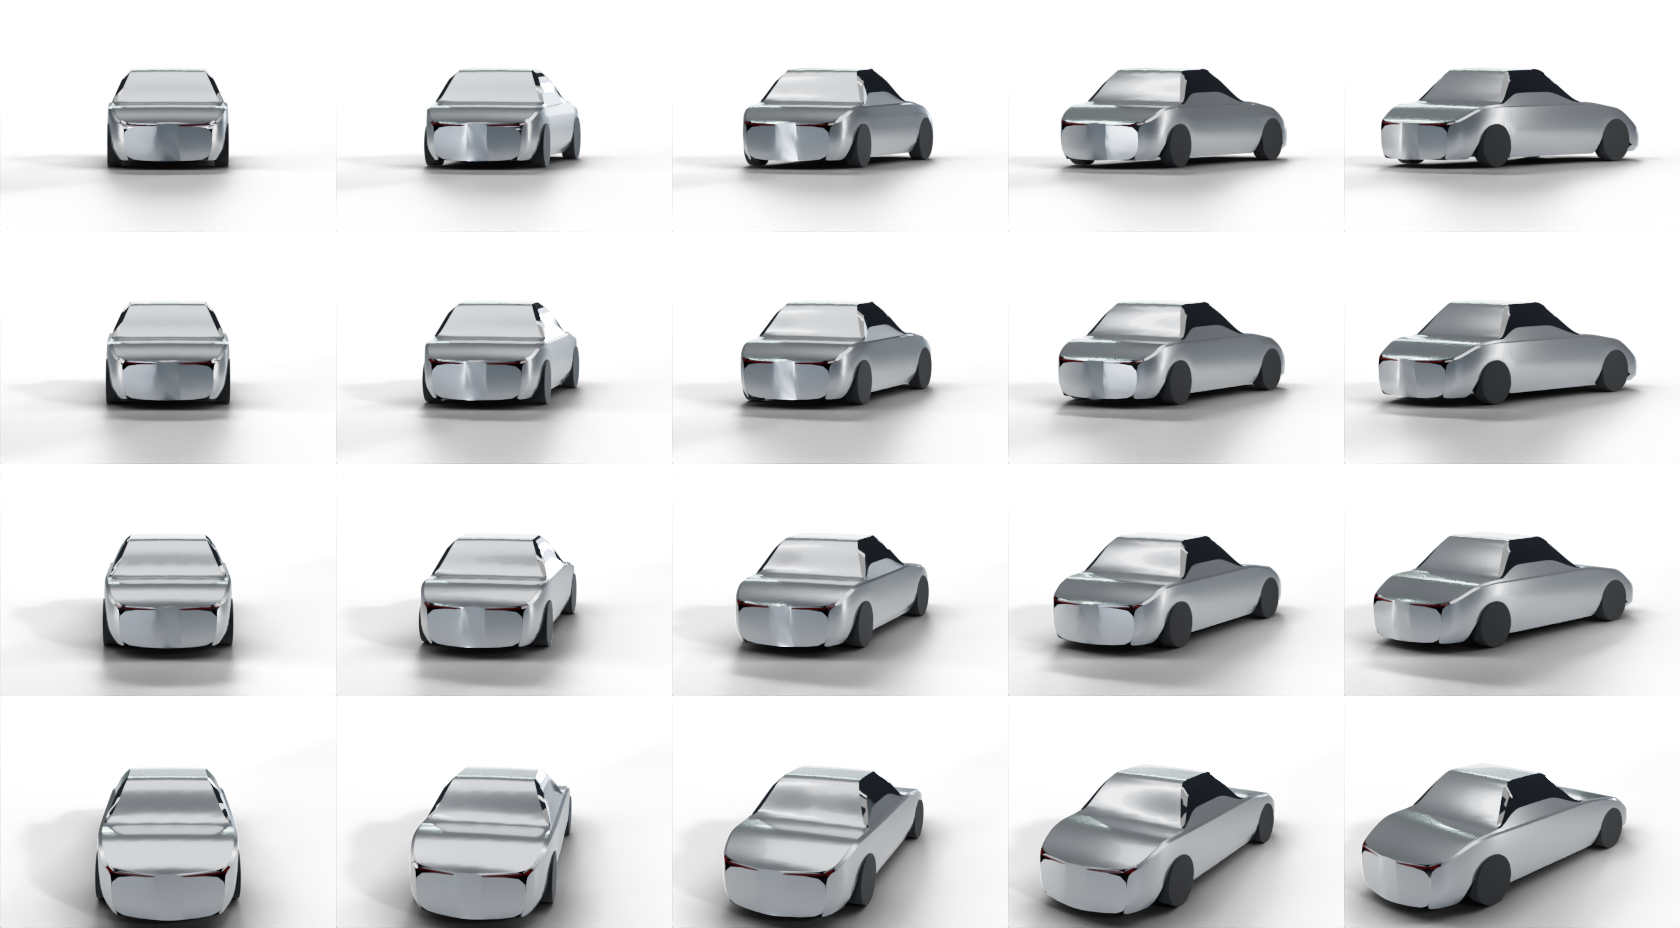
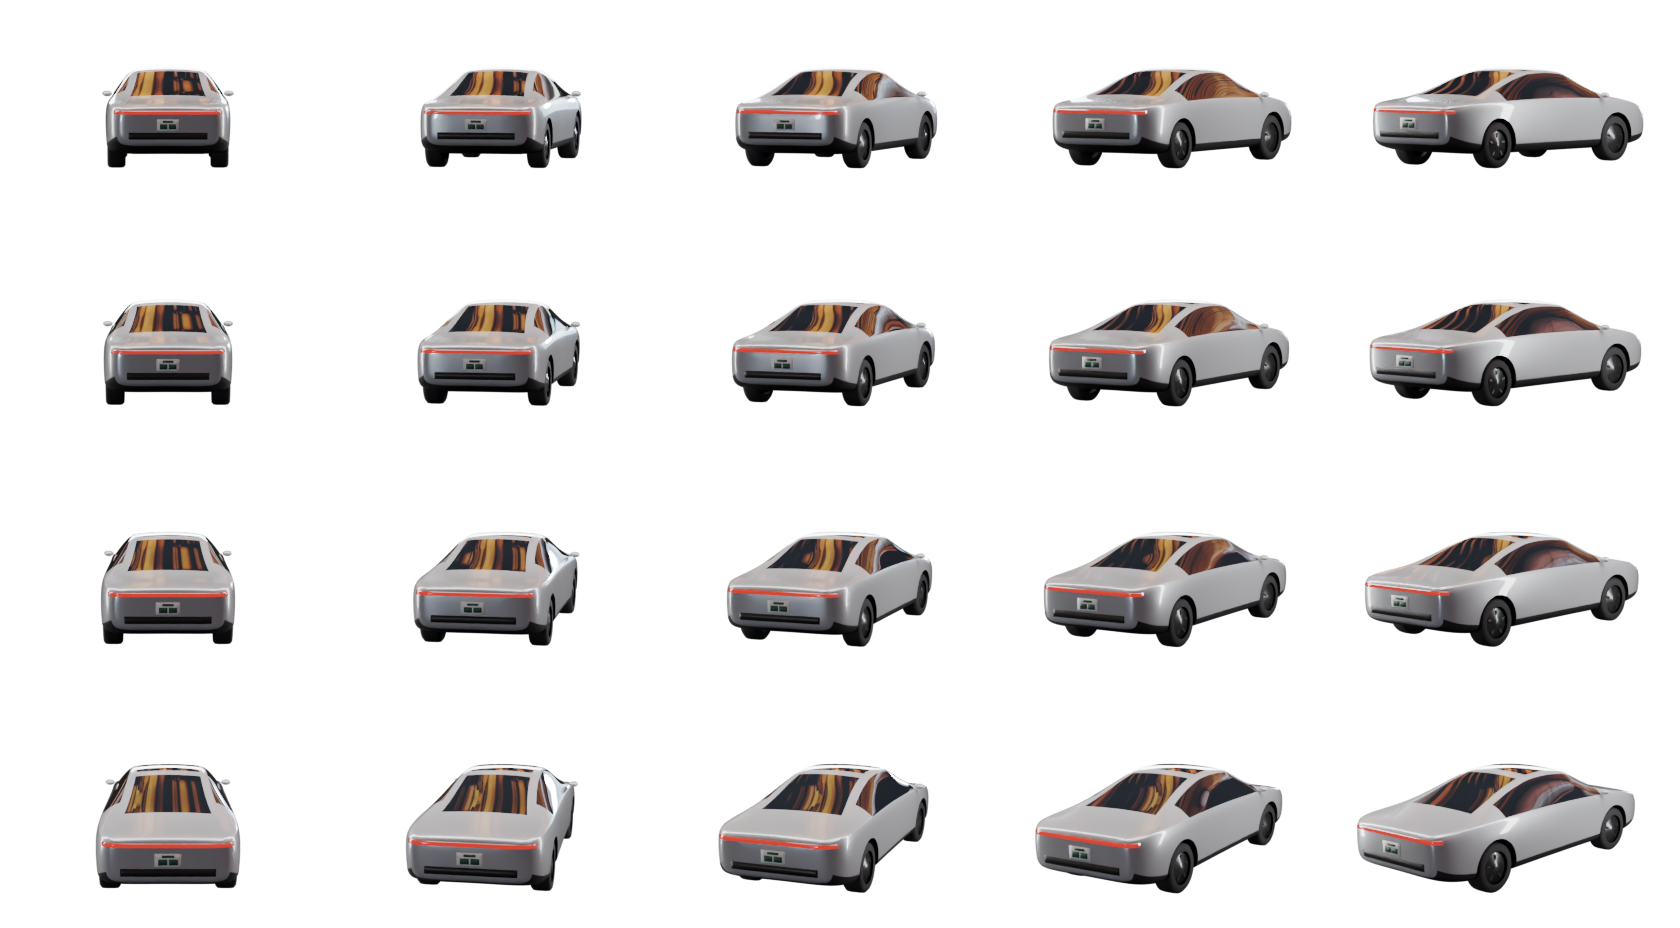
TeslaAdas assets: the cloud run's car images and tunnel lights plate, masters listed

diff --git a/assets/clusters/tesla_adas/ASSETS.md b/assets/clusters/tesla_adas/ASSETS.md
@@ -1,6 +1,6 @@
 # TeslaAdas assets
 
-These files are built by `cargo run --release -p asset-forge -- build --set tesla_adas` from `tools/asset-forge/src/recipes/tesla_adas.rs`. Don't edit them by hand: change the recipe and rebuild.
+These files are built by `cargo run --release -p asset-forge -- --lane cloud build --set tesla_adas` from `tools/asset-forge/src/recipes/tesla_adas.rs`. Don't edit them by hand: change the recipe and rebuild. The committed set is one run on the cloud lane's RTX 4090 (28 Nov 2026, 04:55 to 05:04 UTC).
 
 The ledger rows are also in `assets/ASSETS.md`. The dash draws a plain fallback for each image, used when `setup.assets` is `None` or the file is missing.
 
@@ -13,7 +13,7 @@ Blender's camera is right-handed and the kit's isn't, so every Blender render is
 | `ego_brake.png` | Blender 5.3 (64 spp) | The same shots at half size. Only the tail bar is emissive, with its spill on the bumper and the road. Luminance becomes alpha, gamma 0.8. | 2048 × 960 | The brake light, added in warning red while braking | A red bar on the drawn body |
 | `ego_parked.png` | Blender 5.3 (Cycles 256 spp) | The same car from the front left through a 64 mm lens, with a strip light over the centre line and one on each side, running lights on. | 2048 × 1152 | The parked view: the car alone while it stands still | The drawn body block |
 | `traffic_sedan.png`, `traffic_sport.png`, `traffic_kei.png` | Blender 5.3 (Cycles 96 spp) | `tesla_adas::CAR_LIB` + `SHOTS`, seed 152, in grey paint. The sedan and the sport body are fastbacks (the sport one with a taller ducktail); the kei is a one-box 3.40 × 1.48 × 1.78 m with upright corner lamps and a yellow plate. Rows are view elevations 3 / 6 / 10 / 16°; columns are headings relative to the view ray, 0..40° in steps of 10 (mirrored live for negative angles). Cells are 336 × 232 at 64 px/m, anchored at (0.5, 0.70). | 1680 × 928 each | The seeded ambient traffic, picked by each car's elevation and heading on screen | A grey block |
-| `tunnel_lights.png` | ComfyUI (SDXL base 1.0 + 4x-UltraSharp, dpmpp_2m karras, 32 steps, cfg 6.5, 1536 × 640) | Seed 6006, prompt `NIGHT_PROMPT` in the recipe: the ceiling lamps of a Japanese expressway tunnel. Post: the 6144 × 2560 upscale at 4096 × 1706, its median luminance taken to black and its 99.9th percentile to full, so only the lamps' light is left. | 4096 × 1706 | A build input, not loaded by the dash: every lit car shot hangs it 6 m over the road as a light card (long side along the road, emission × 6). It is what the glass roofs and the paint reflect, and it tints the bodies. | The cars are lit by the studio alone |
+| `tunnel_lights.png` | ComfyUI (SDXL base 1.0 + 4x-UltraSharp, dpmpp_2m karras, 32 steps, cfg 6.5, 1536 × 640) | Seed 6006, prompt `NIGHT_PROMPT` and negative `NIGHT_NEGATIVE` in the recipe. The prompt asks for a flat view of the ceiling; SDXL drew the tunnel in one-point perspective instead: rows of orange sodium tubes running to a vanishing point low in the frame, lit wall panels and a white service doorway on the left. Post: the 6144 × 2560 upscale at 4096 × 1706, its median luminance taken to black and its 99.9th percentile to full, each pixel keeping its hue, so the lamps, the doorway and the lit walls are left and the dark ceiling and road are gone. | 4096 × 1706 | A build input, not loaded by the dash: every lit car shot hangs it 6 m over the road as a light card (long side along the road, emission × 6). It is what the glass roofs and rear windows reflect (the orange streaks in every car image) and it warms the paint. | The cars are lit by the studio alone |
 | `NotoSansJP-Medium-subset.ttf` | fontTools 4.69 | See "The Japanese label face" below. | 160,696 bytes, 700 glyphs | The Japanese line of each two-language label and the road text | The kit's embedded Noto Sans (the Japanese line is then left out) |
 | `NotoSansJP-OFL.txt` | — | The font's licence, copied from the same commit. | — | — | — |
 
@@ -26,6 +26,33 @@ Rig for every car shot:
 - **Road:** a dark plane under the car, hidden from the camera. It shades the underside and shows in the paint. The sprites carry no shadow: a baked shadow is black with alpha, and the overlay's 8-bit premultiplied output shows that as a lighter box over the faint road surface.
 
 The road itself (surface, lane lines, reflectors, path, braking marks, road text) is drawn live and is not an asset.
+
+## 4K masters (Google Drive, `FH6 WheelDash v2 - 4K Masters/tesla_adas/`)
+
+Copied from the build's scratch folders after the cloud run (the run was started without `--masters`, so the copy was made by hand with the same folder names `--masters tesla_adas` uses).
+
+| Folder | Files | What they are |
+|---|---|---|
+| `comfyui/` | `tesla_adas_night.png` (6144 × 2560, 21.2 MB) | The SDXL plate after the 4× upscale, before the light-only post. Master of `tunnel_lights.png`. |
+| `tesla_adas_ego/` | `beauty_0.png` to `beauty_10.png`, `glow_0.exr` to `glow_10.exr`, `brake_0.exr` to `brake_10.exr` | The 11 yaw renders of the ego car, one per atlas cell, and the linear glow and brake passes. Masters of `ego.png`, `ego_glow.png`, `ego_brake.png`. |
+| `tesla_adas_parked/` | `parked.png` | The parked view as Blender wrote it, before the recipe's post. Master of `ego_parked.png`. |
+| `tesla_adas_traffic/` | `sedan_<e>_<h>.png`, `sport_<e>_<h>.png`, `kei_<e>_<h>.png` (elevation 0 to 3, heading 0 to 4; 60 files) | One render per atlas cell. Masters of the three traffic atlases. |
+| `runtime/` | the eight PNGs of this folder | Byte-identical copies of the runtime files (the route the cloud thread used to fetch them). |
+| `boards/` | `cockpit_1_idle.png` to `hood_4_drift-braking.png` (8 files) | The Penpot boards of page `07 · TeslaAdas`, exported at 3840 × 2160. |
+| `before/` | the old build's review set | The dash on `main` before this rebuild (`preview-export --cluster TeslaAdas` at the start of the thread). |
+
+SHA-256 of the runtime files as committed:
+
+| File | SHA-256 |
+|---|---|
[8 lines of base64/hex data omitted]
 
 ## The Japanese label face
 
